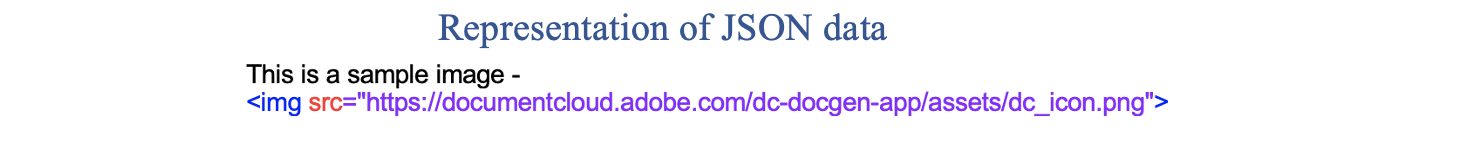
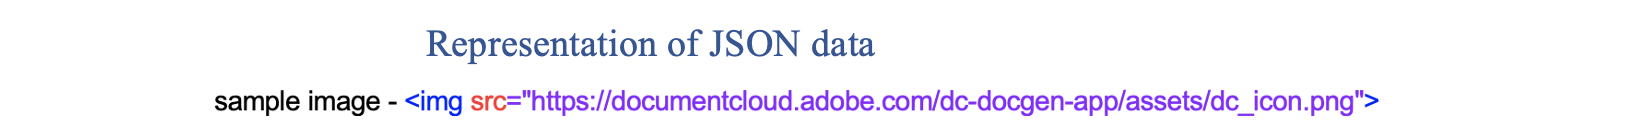
Adding clear example for inline image

Changed region(s): [[0.1248, 0.6176, 0.8426, 0.8529], [0.156, 0.0882, 0.6242, 0.6176], [0.4057, 0.0882, 0.4369, 0.1176]]

diff --git a/src/pages/overview/document-generation-api/inlineimages.md b/src/pages/overview/document-generation-api/inlineimages.md
@@ -7,13 +7,13 @@ Add inline images in the document through json data using the <img\> tag.
 
 ## How It Works
 
-You can provide the input image url by making use of html img tag in json. 
+Image url can be provided in the input json data using html img tag. 
 
 JSON representation of the input data:
 
 ```json
 {
-  "ContentBlock": "This is a sample image - <img src=\"https://documentcloud.adobe.com/dc-docgen-app/assets/dc_icon.png\">"
+  "ContentBlock": "sample image - <img src=\"https://documentcloud.adobe.com/dc-docgen-app/assets/dc_icon.png\">"
 }
 ```
 ![Representation of sample json data](../images/inlineImageJson.png)

diff --git a/src/pages/overview/document-generation-api/templatetags.md b/src/pages/overview/document-generation-api/templatetags.md
@@ -73,7 +73,7 @@ the input data.
 
 **Prefix**
 
-We can specify a prefix value for the placeholder variable. Doing so will append
+A prefix value can be specified for the placeholder variable. Doing so will append
 this value before the result of the tag.
 
 ![Placeholder tags with prefix image set](../images/placeholder_prefix.png)
